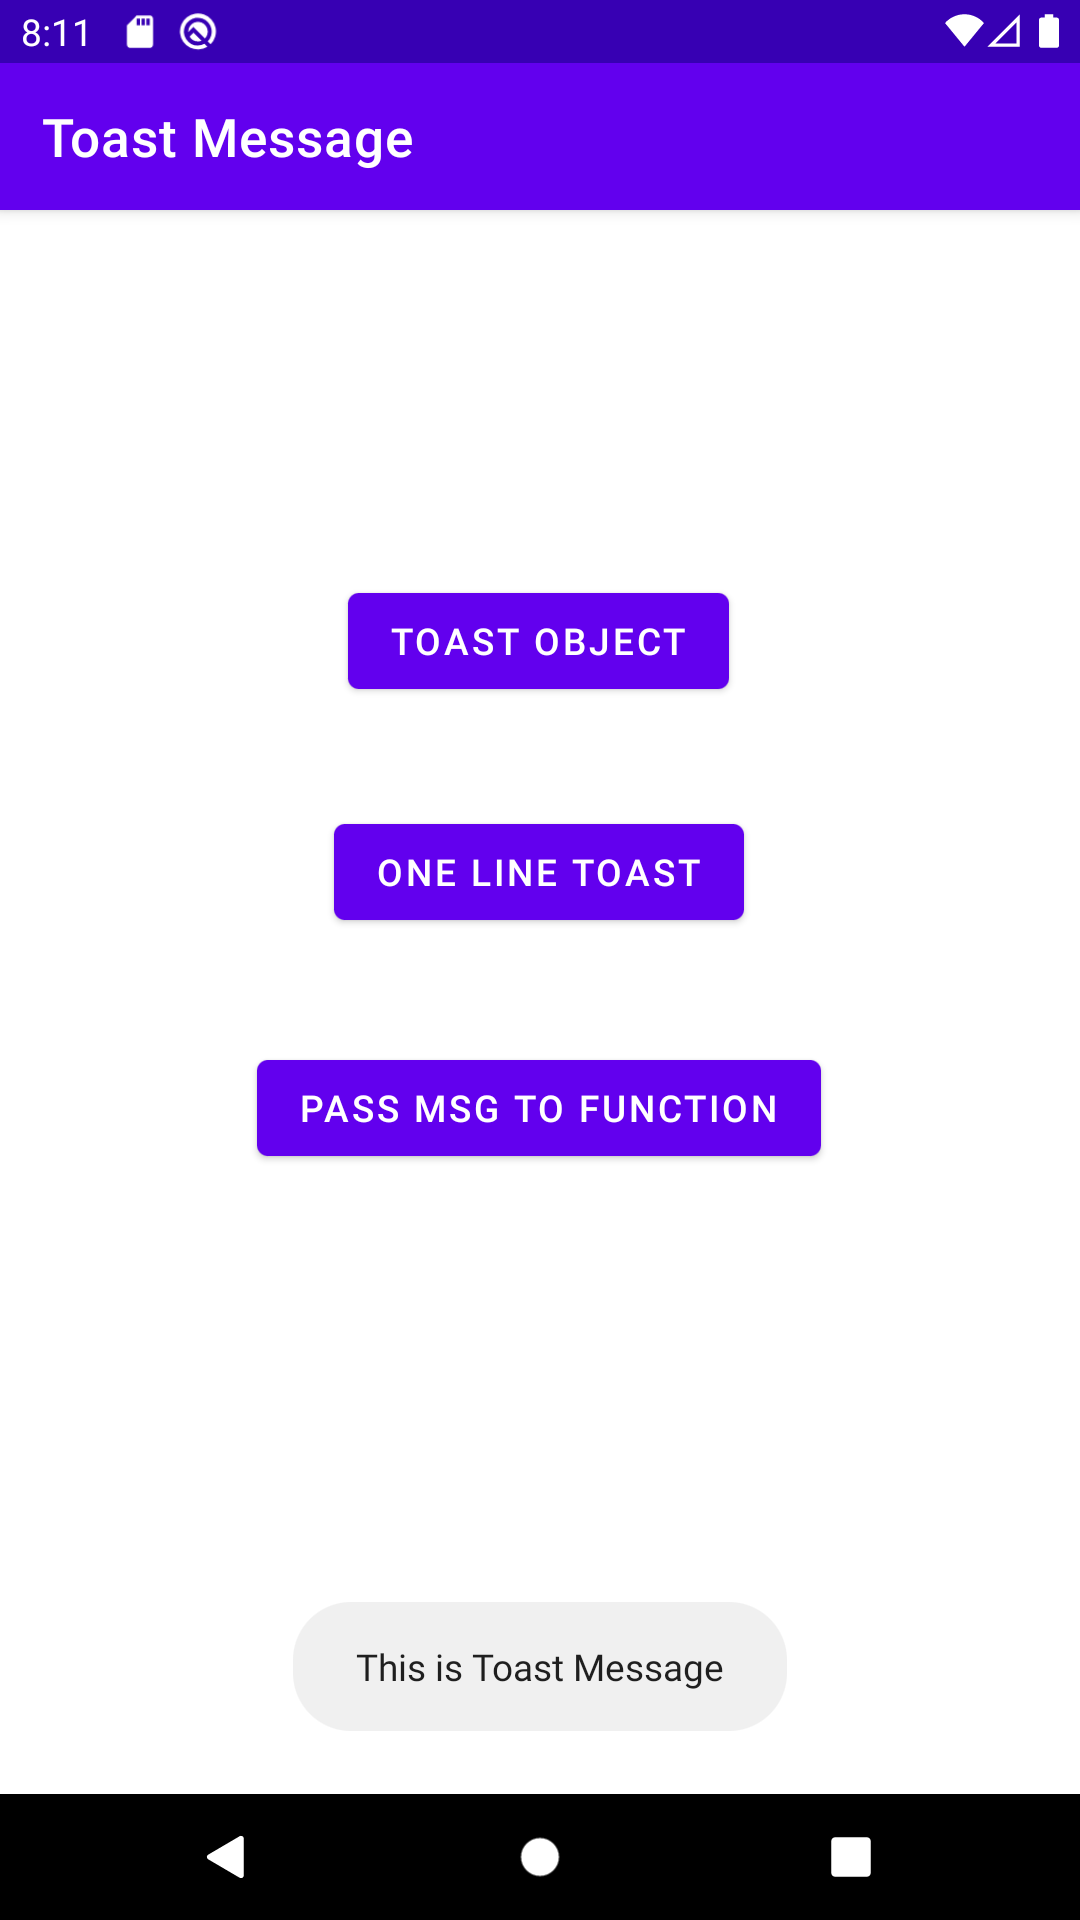
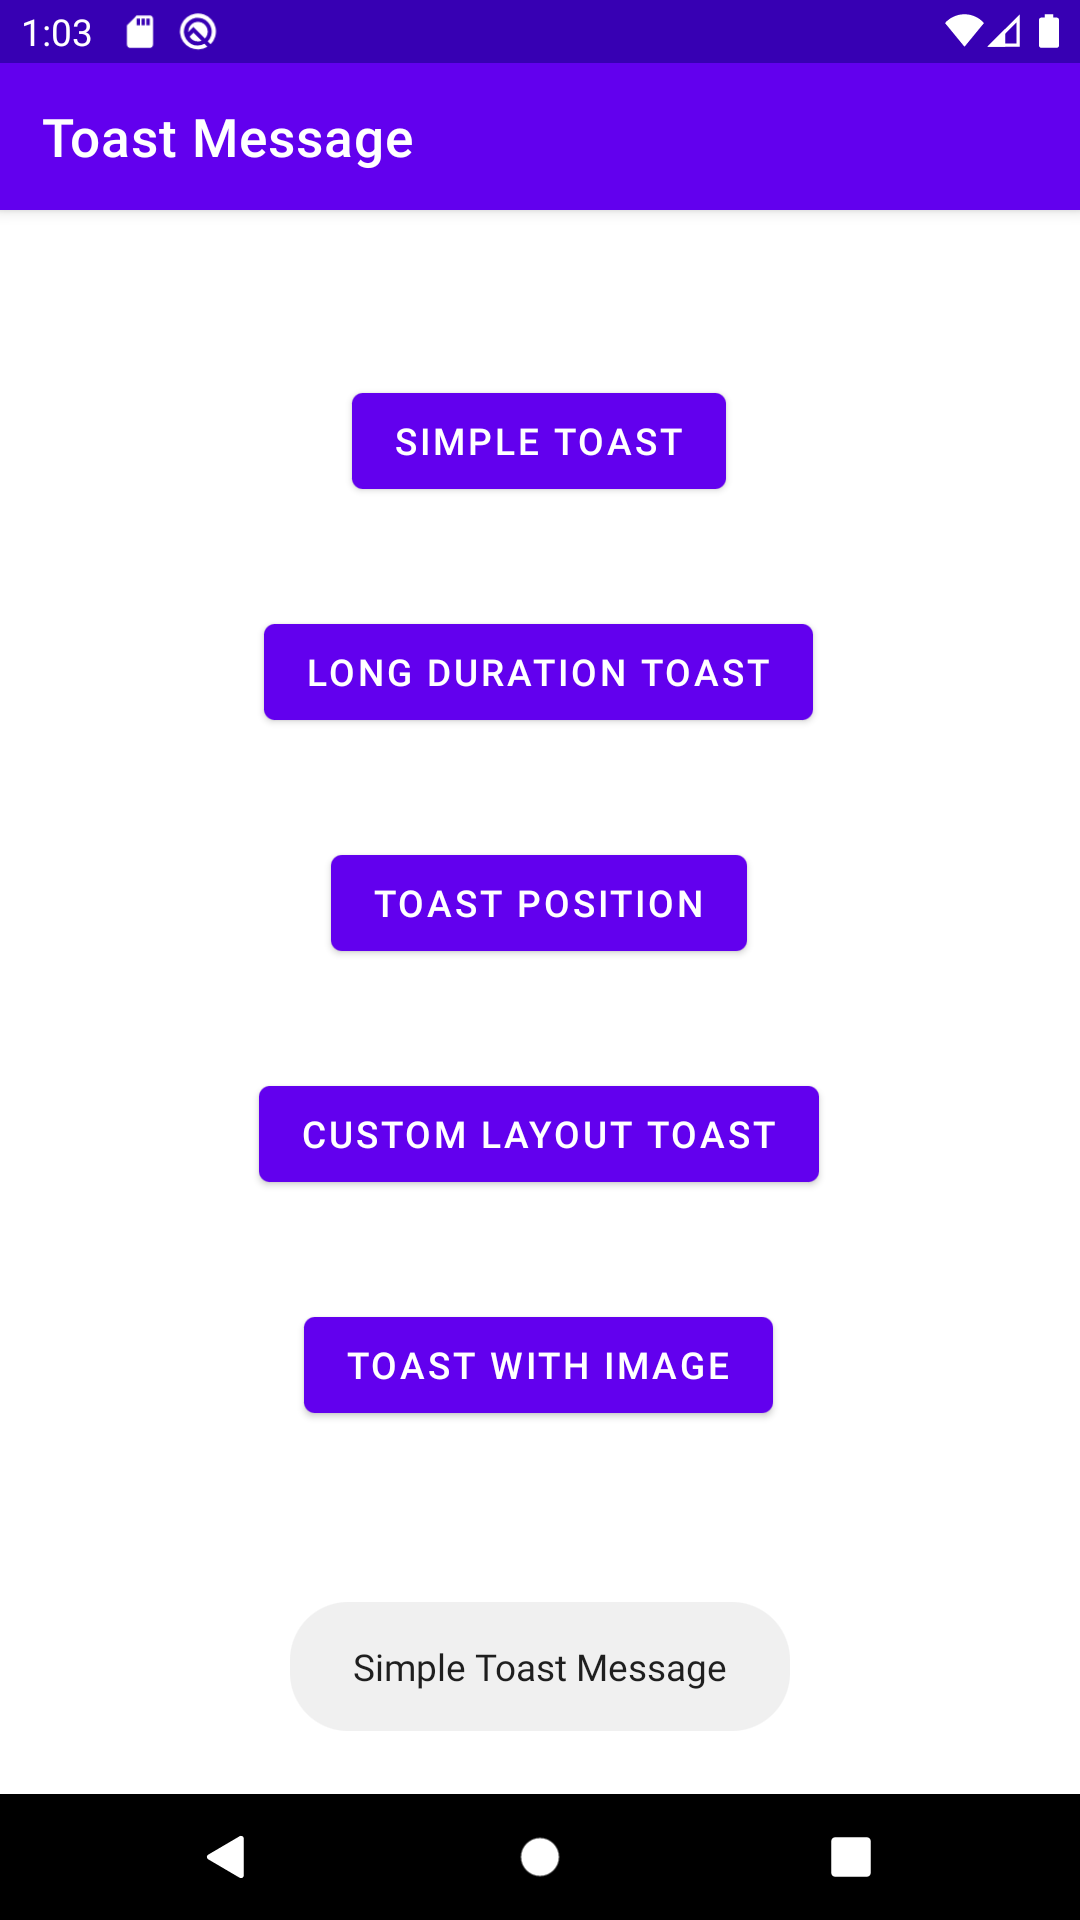
update code

diff --git a/app/src/main/java/com/cybextron/toastmessage/MainActivity.java b/app/src/main/java/com/cybextron/toastmessage/MainActivity.java
@@ -3,7 +3,10 @@ package com.cybextron.toastmessage;
 import androidx.appcompat.app.AppCompatActivity;
 
 import android.os.Bundle;
+import android.view.Gravity;
+import android.view.LayoutInflater;
 import android.view.View;
+import android.view.ViewGroup;
 import android.widget.Button;
 import android.widget.Toast;
 
@@ -14,35 +17,42 @@ public class MainActivity extends AppCompatActivity {
         super.onCreate(savedInstanceState);
         setContentView(R.layout.activity_main);
 
-        Button bt1 = (Button) findViewById(R.id.btn1);
-        Button bt2 = (Button) findViewById(R.id.btn2);
-        Button bt3 = (Button) findViewById(R.id.btn3);
+        Button btn1 = (Button) findViewById(R.id.btn1);
+        Button btn2 = (Button) findViewById(R.id.btn2);
+        Button btn3 = (Button) findViewById(R.id.btn3);
+        Button btn4 = (Button) findViewById(R.id.btn4);
+        Button btn5 = (Button) findViewById(R.id.btn5);
 
-        Toast toast = Toast.makeText(getApplicationContext(), "This is Toast Object", Toast.LENGTH_SHORT);
+        //Creating the LayoutInflater instance
+        LayoutInflater li = getLayoutInflater();
+        //Getting the View object as defined in the custom_toast.xml file
+        View layout = li.inflate(R.layout.custom_toast,(ViewGroup) findViewById(R.id.customtoast));
 
-        // Make a toast object and show it with help of the show() function
-        bt1.setOnClickListener(new View.OnClickListener() {
-            @Override
-            public void onClick(View view) {
-//                Toast toast = Toast.makeText(getApplicationContext(), "This is Toast Object", Toast.LENGTH_SHORT);
-                toast.show();
-            }
+        // Simple toast message
+        btn1.setOnClickListener(view -> {
+            Toast toast = Toast.makeText(getApplicationContext(), "Simple Toast Message", Toast.LENGTH_SHORT);
+            toast.show();
         });
 
-        // Call the toast in one line
-        bt2.setOnClickListener(new View.OnClickListener() {
-            @Override
-            public void onClick(View view) {
-                Toast.makeText(getApplicationContext(), "This is One Line Toast", Toast.LENGTH_SHORT).show();
-            }
+        // Show long duration toast message with methode chaining
+        btn2.setOnClickListener(view -> {
+            Toast.makeText(getApplicationContext(), "Show Long Duration Toast", Toast.LENGTH_LONG).show();
         });
 
-        // Pass the toast message into function
-        bt3.setOnClickListener(new View.OnClickListener() {
-            @Override
-            public void onClick(View view) {
-                showToast("Pass Toast Message");
-            }
+        btn3.setOnClickListener(view -> {
+            Toast toast = Toast.makeText(getApplicationContext(), "Set Toast Position", Toast.LENGTH_SHORT);
+            toast.setGravity(Gravity.BOTTOM | Gravity.LEFT, 10, 20);
+            toast.show();
+        });
+
+        btn4.setOnClickListener(view -> {
+            Toast toast = Toast.makeText(getApplicationContext(), "Set Toast Position", Toast.LENGTH_SHORT);
+            toast.setView(layout);
+            toast.show();
+        });
+
+        btn5.setOnClickListener(view -> {
+
         });
     }
     public void showToast (String msg){
